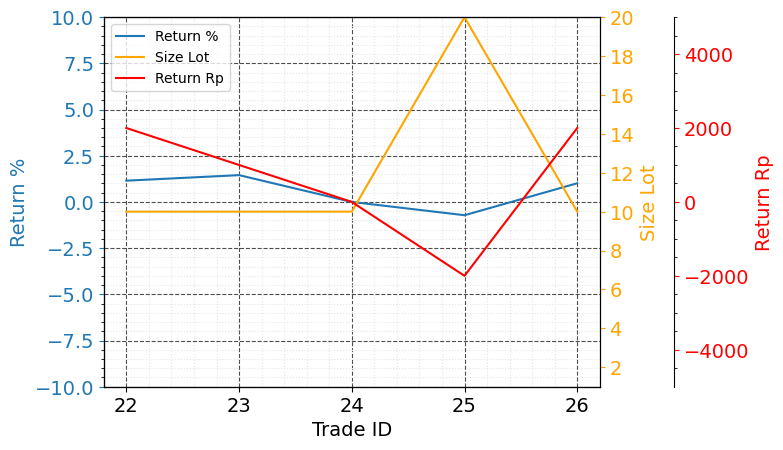
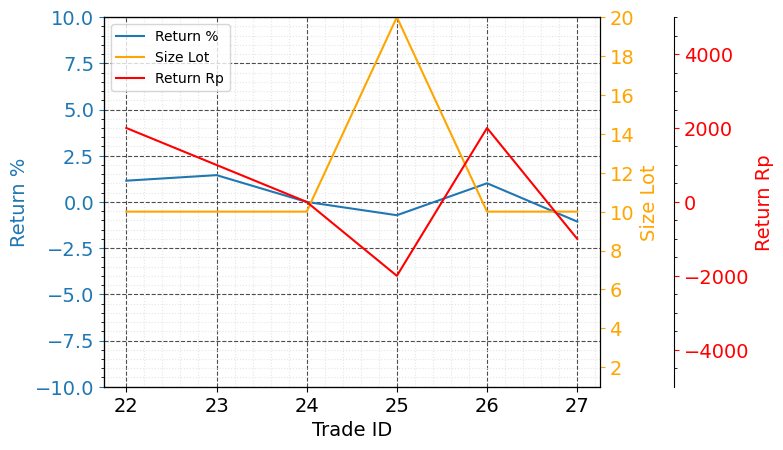
Update 29 May 2023

diff --git a/evaluasi_saham/Jajan_Sore.html b/evaluasi_saham/Jajan_Sore.html
@@ -54,15 +54,15 @@
 			<h3>Evaluasi Jajan Sore 22 May 2023 - 26 May 2023</h3>
 			<p>Statistik:</p>
 			<p>
-				- Win Rate (%):  60.0<br>
-				- Total Return (Rp):  3000<br>
-				- Max Return (Rp):  2000<br>
-				- Min Return (Rp):  -2000<br>
-				- Total Return (%):  2.89<br>
-				- Max Return (%):  1.45<br>
-				- Min Return (%):  -0.72<br>
+				- Win Rate (%):  50.0
+				- Total Return (Rp):  2000
+				- Max Return (Rp):  2000
+				- Min Return (Rp):  -2000
+				- Total Return (%):  1.83
+				- Max Return (%):  1.45
+				- Min Return (%):  -1.06
 			</p>
-			<p>Win rate cukup baik <b>60.0%</b> dan total net return adalah positif yaitu <b style="color:green;">Rp. 3000</b>.</p>
+			<p>Win rate <b>50.0%</b> dan total net return adalah positif yaitu <b style="color:green;">Rp. 2000</b>.</p>
 
 			<p>Grafik:</p>
 			<img src="images/eval_jjs_20230522_20230526.png">
